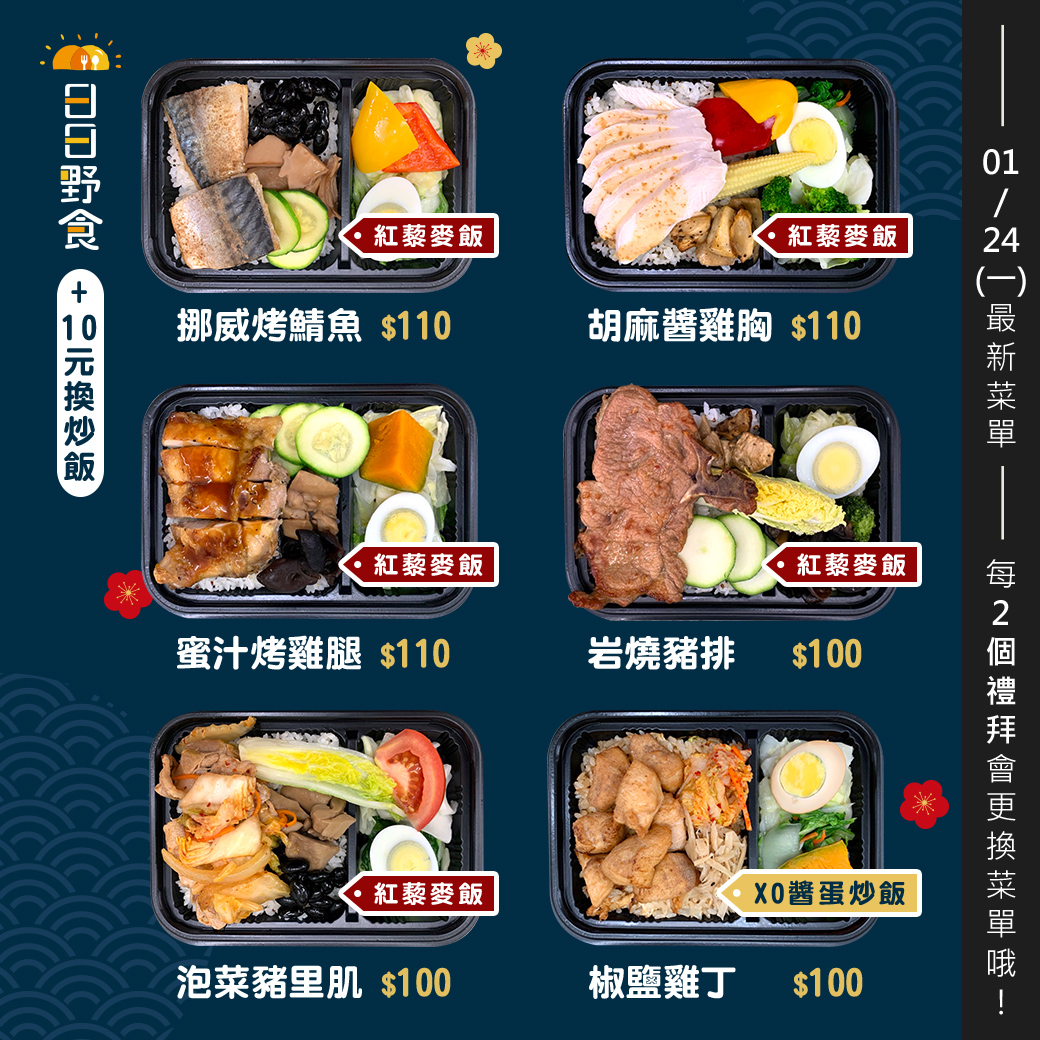
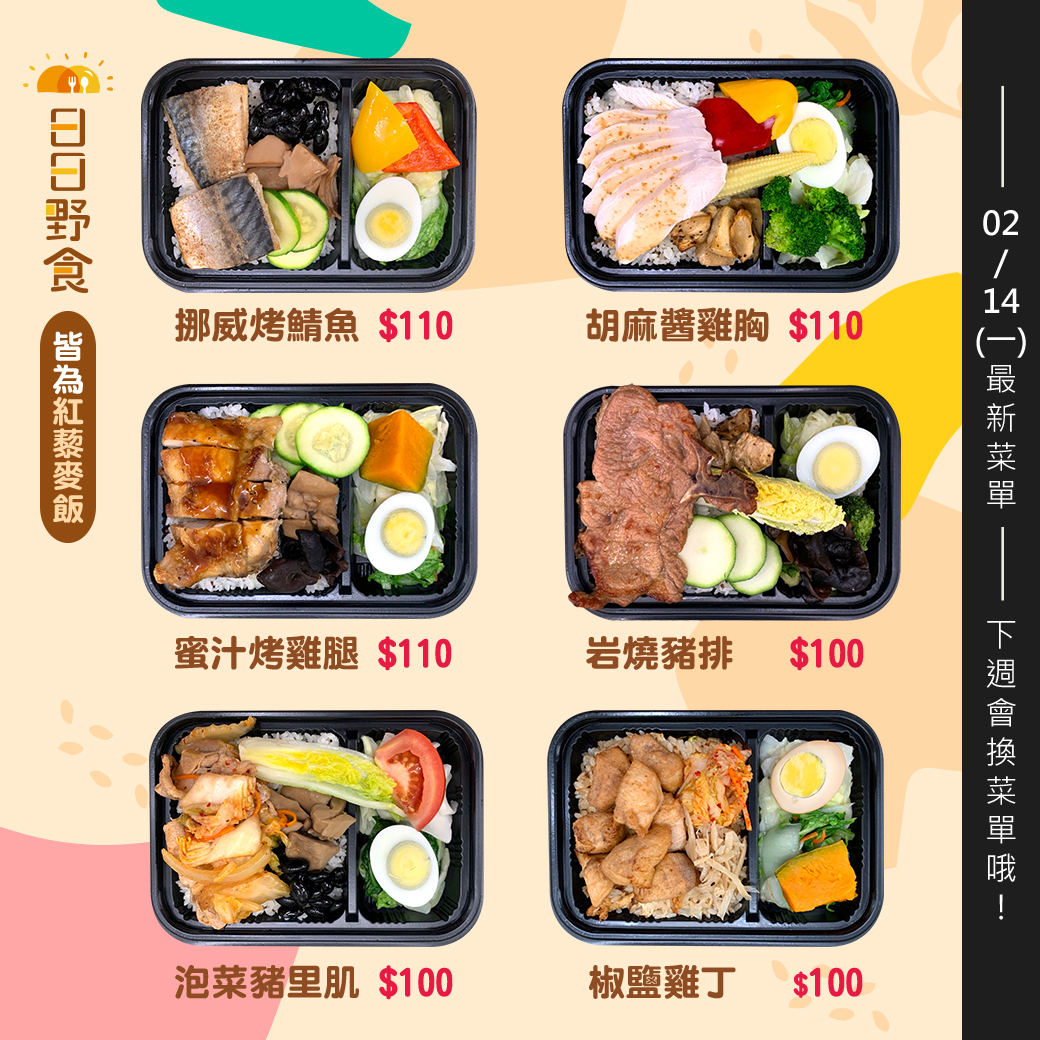
2/14最新菜單更新

diff --git a/index.html b/index.html
@@ -170,7 +170,7 @@
 <section id="works" class="works">
 	<div class="container">
 		<div class="section-heading">
-			<h1 class="title wow fadeInDown" data-wow-delay=".3s">1/24(一)最新菜單</h1>
+			<h1 class="title wow fadeInDown" data-wow-delay=".3s">2/14(一)最新菜單</h1>
 			<p class="wow fadeInDown" data-wow-delay=".5s">每2週換一次菜單，怎麼吃都吃不膩❤</p>
 		</div>
 		<div class="row">
@@ -184,21 +184,19 @@
 			<div class="col-sm-6">
 				<div class="fadeInRight" data-wow-delay=".3s" data-wow-duration="500ms">
 					<p class="menuText mt-4 mt-md-0">
-						XO醬炒飯餐盒<br/>
-						✨椒鹽雞丁 $100<br/>
-						-<br/>
 						健康餐盒(紅藜麥飯)<br/>
 						✨胡麻醬雞胸 $110<br/>
 						✨蜜汁烤雞腿 $110<br/>
 						✨挪威烤鯖魚 $110<br/>
 						✨泡菜豬里肌 $100<br/>
 						✨岩燒豬排 $100<br/>
-						+10元換炒飯<br/>
+            ✨椒鹽雞丁 $100<br/>
 						-<br/>
 						隱藏版菜單<br/>
 						✨舒肥海鹽板腱牛排 $160<br/>
 						✨蜜汁阿根廷大魷魚 $160<br/>
 						-<br/>
+            ※下次換餐單為2/21(一)哦！<br/>
 						✅每日選用新鮮蔬菜<br/>
 						✅每兩週換一次菜單<br/>
 					</p>

diff --git a/menu/index.html b/menu/index.html
@@ -102,7 +102,7 @@
 <section id="blog-full-width">
 	<div class="container">
     <div class="section-heading">
-			<h1 class="title wow fadeInDown" data-wow-delay=".3s">1/24(一)最新菜單</h1>
+			<h1 class="title wow fadeInDown" data-wow-delay=".3s">2/14(一)最新菜單</h1>
 			<p class="wow fadeInDown" data-wow-delay=".5s">每2週換一次菜單，怎麼吃都吃不膩❤</p>
 		</div>
     <div class="row">
@@ -116,21 +116,19 @@
 			<div class="col-sm-6">
 				<div class="fadeInRight" data-wow-delay=".3s" data-wow-duration="500ms">
 					<p class="menuText mt-4 mt-md-0">
-						XO醬炒飯餐盒<br/>
-						✨椒鹽雞丁 $100<br/>
-						-<br/>
 						健康餐盒(紅藜麥飯)<br/>
 						✨胡麻醬雞胸 $110<br/>
 						✨蜜汁烤雞腿 $110<br/>
 						✨挪威烤鯖魚 $110<br/>
 						✨泡菜豬里肌 $100<br/>
 						✨岩燒豬排 $100<br/>
-						+10元換炒飯<br/>
+            ✨椒鹽雞丁 $100<br/>
 						-<br/>
 						隱藏版菜單<br/>
 						✨舒肥海鹽板腱牛排 $160<br/>
 						✨蜜汁阿根廷大魷魚 $160<br/>
 						-<br/>
+            ※下次換餐單為2/21(一)哦！<br/>
 						✅每日選用新鮮蔬菜<br/>
 						✅每兩週換一次菜單<br/>
 					</p>

diff --git a/delivery/index.html b/delivery/index.html
@@ -194,7 +194,7 @@
             -<br/>
             如果有外送需求<br/>
             請加入LINE跟我們聯絡<br/>
-            <a href="line/index.html" class="btn btn-success btn-sm" target="_blank">加入LINE</a><br/>
+            <a href="../line/index.html" class="btn btn-success btn-sm" target="_blank"><i class="fa-solid fa-comment-dots"></i> 加入LINE</a><br/>
           </p>
           <div class="font-weight-bold colorOrange">記得要在前一天17:30告知！</div>           
           <p class="menuText">
